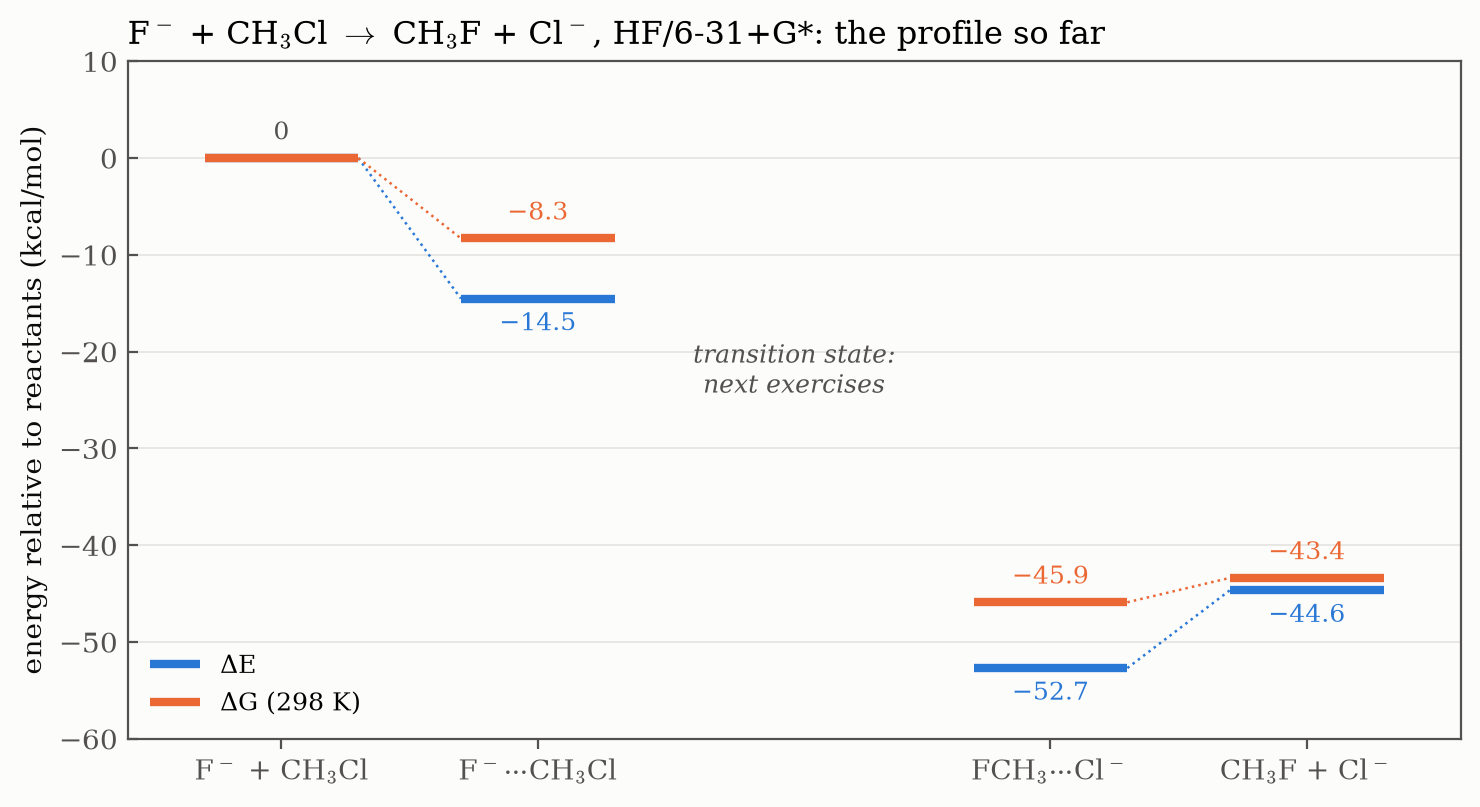
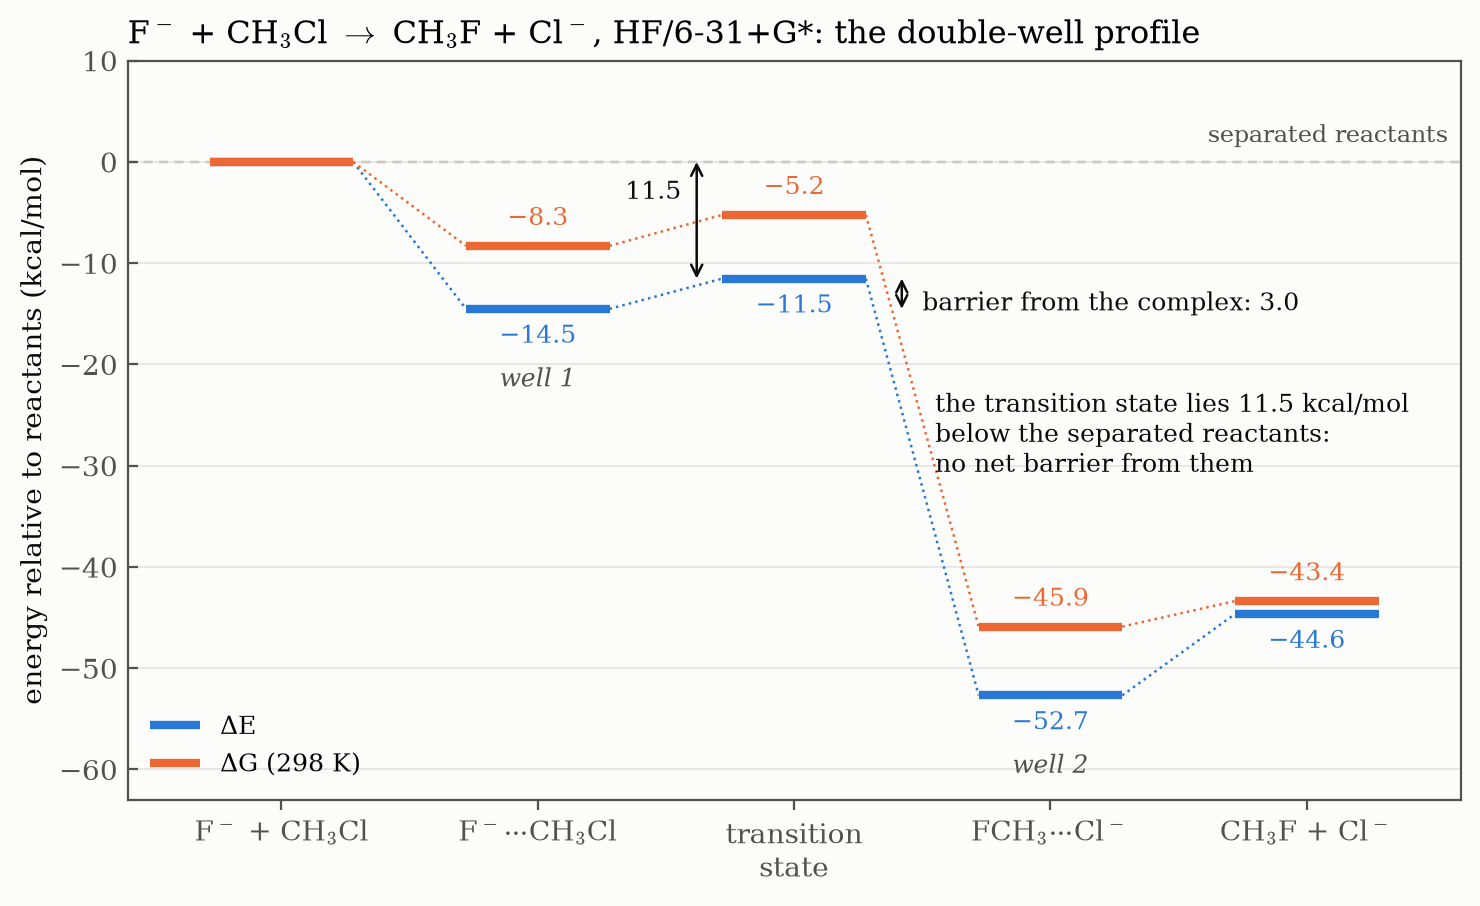
S04: figures for the surface, the transition vector and the double well
The map is a bicubic spline of the 99 scan points, with the path traced
by steepest descent from its saddle point. The energy profile now has
all five stationary points.

Supervised-by: Claude Opus 5.5 <noreply@anthropic.com>

diff --git a/sessions/04-sn2-reaction/plot_figures.py b/sessions/04-sn2-reaction/plot_figures.py
@@ -1,19 +1,21 @@
 """Builds every figure of Session 04 from the processed data files.
 
 Usage (from this folder):  python plot_figures.py
-Requires numpy and matplotlib. Figures are written to figures/.
+Requires numpy, scipy and matplotlib. Figures are written to figures/.
 """
 from pathlib import Path
 
 import matplotlib.pyplot as plt
 import numpy as np
 from matplotlib.patches import Ellipse
+from scipy.interpolate import RectBivariateSpline
+from scipy.optimize import root
 
 HERE = Path(__file__).parent
 OUT = HERE / "figures"
 OUT.mkdir(exist_ok=True)
 
-BLUE, ORANGE, AQUA = "#2a78d6", "#eb6834", "#1baf7a"
+BLUE, ORANGE, AQUA, YELLOW = "#2a78d6", "#eb6834", "#1baf7a", "#eda100"
 INK, INK_2, GRID = "#0b0b0b", "#52514e", "#e4e3df"
 SURFACE = "#fcfcfb"
 HARTREE_TO_KCAL = 627.5095
@@ -45,48 +47,68 @@ def read_results(path):
     return {l.split()[0]: dict(zip(names, l.split()[1:])) for l in lines[1:]}
 
 
+def reactants(column="E"):
+    """E or G of F- + CH3Cl, the zero of every energy in this session (hartree)."""
+    ions = read_results("ex1-reactants-and-products/results.txt")
+    return float(ions["f_anion"][column]) + float(ions["ch3cl"][column])
+
+
 def profile():
     """Energy of each stationary point relative to the reactants (kcal/mol)."""
     ions = read_results("ex1-reactants-and-products/results.txt")
     complexes = read_results("ex2-ion-dipole-complexes/results.txt")
+    ts = read_results("ex4-transition-state/results.txt")
     out = {}
     for column in ("E", "G"):
         v = lambda table, key: float(table[key][column])
-        reactants = v(ions, "f_anion") + v(ions, "ch3cl")
         products = v(ions, "cl_anion") + v(ions, "ch3f")
-        out[column] = [(x - reactants) * HARTREE_TO_KCAL for x in (
-            reactants, v(complexes, "f_ch3cl"), v(complexes, "ch3f_cl"), products)]
+        out[column] = [(x - reactants(column)) * HARTREE_TO_KCAL for x in (
+            reactants(column), v(complexes, "f_ch3cl"), v(ts, "ts_sn2"), v(complexes, "ch3f_cl"),
+            products)]
     return out
 
 
-# --- Figure 1: the energy profile so far (ex1 + ex2) -------------------------
+# --- Figure 1: the double-well profile (ex1 + ex2 + ex4) -----------------------
 def fig_profile():
     levels = profile()
-    x = [0, 1, 3, 4]
-    names = [r"F$^-$ + CH$_3$Cl", r"F$^-\cdots$CH$_3$Cl", r"FCH$_3\cdots$Cl$^-$", r"CH$_3$F + Cl$^-$"]
-    fig, ax = plt.subplots(figsize=(8.6, 4.4))
-    # G lies above E at the complexes: its label goes above, the one of E below
-    for column, colour, label, shift in (("E", BLUE, "ΔE", -2.6), ("G", ORANGE, "ΔG (298 K)", 2.6)):
+    x = [0, 1, 2, 3, 4]
+    names = [r"F$^-$ + CH$_3$Cl", r"F$^-\cdots$CH$_3$Cl", "transition\nstate",
+             r"FCH$_3\cdots$Cl$^-$", r"CH$_3$F + Cl$^-$"]
+    fig, ax = plt.subplots(figsize=(8.6, 4.8))
+    ax.axhline(0, color=INK_2, lw=0.8, ls=(0, (4, 3)), zorder=1)
+    ax.text(4.55, 1.4, "separated reactants", ha="right", va="bottom", fontsize=8.5, color=INK_2)
+    # G lies above E everywhere: its label goes above, the one of E below
+    for column, colour, label, shift in (("E", BLUE, "ΔE", -2.7), ("G", ORANGE, "ΔG (298 K)", 2.7)):
         y = levels[column]
         for k, (xi, yi) in enumerate(zip(x, y)):
-            ax.plot([xi - 0.3, xi + 0.3], [yi, yi], color=colour, lw=3, solid_capstyle="butt",
+            ax.plot([xi - 0.28, xi + 0.28], [yi, yi], color=colour, lw=3, solid_capstyle="butt",
                     label=label if k == 0 else None, zorder=3)
-            if k == 0 and column == "E":   # both are 0 at the reactants: one label
+            if k == 0:   # both are 0 at the reactants: no label needed
                 continue
-            text = "0" if k == 0 else f"{yi:.1f}".replace("-", "−")
-            ax.text(xi, yi + shift, text, ha="center", va="center",
-                    fontsize=9, color=INK_2 if k == 0 else colour)
-        ax.plot([x[0] + 0.3, x[1] - 0.3], y[:2], color=colour, lw=0.9, ls=":", zorder=2)
-        ax.plot([x[2] + 0.3, x[3] - 0.3], y[2:], color=colour, lw=0.9, ls=":", zorder=2)
-    ax.text(2, -22, "transition state:\nnext exercises", ha="center", va="center",
-            fontsize=9, color=INK_2, style="italic")
+            ax.text(xi, yi + shift, f"{yi:.1f}".replace("-", "−"), ha="center", va="center",
+                    fontsize=9, color=colour)
+        for k in range(4):
+            ax.plot([x[k] + 0.28, x[k + 1] - 0.28], y[k:k + 2], color=colour, lw=0.9, ls=":", zorder=2)
+    e = levels["E"]
+    # The two wells, and the barrier between them
+    ax.annotate("", xy=(2.42, e[2]), xytext=(2.42, e[1]),
+                arrowprops={"arrowstyle": "<->", "color": INK, "lw": 0.9, "shrinkA": 0, "shrinkB": 0})
+    ax.text(2.5, (e[1] + e[2]) / 2 - 1, f"barrier from the complex: {e[2] - e[1]:.1f}",
+            ha="left", va="center", fontsize=9, color=INK)
+    ax.annotate("", xy=(1.62, e[2]), xytext=(1.62, 0),
+                arrowprops={"arrowstyle": "<->", "color": INK, "lw": 0.9, "shrinkA": 0, "shrinkB": 0})
+    ax.text(1.56, -3, f"{-e[2]:.1f}", ha="right", va="center", fontsize=9, color=INK)
+    ax.text(2.55, -27, f"the transition state lies {-e[2]:.1f} kcal/mol\nbelow the separated reactants:\n"
+            "no net barrier from them", ha="left", va="center", fontsize=9, color=INK)
+    for xi, text in ((1, "well 1"), (3, "well 2")):
+        ax.text(xi, e[xi] - 7, text, ha="center", va="center", fontsize=9, color=INK_2, style="italic")
     ax.set_xticks(x, names)
     ax.set_xlim(-0.6, 4.6)
-    ax.set_ylim(-60, 10)
+    ax.set_ylim(-63, 10)
     ax.set_ylabel("energy relative to reactants (kcal/mol)")
     ax.grid(axis="x", visible=False)
     ax.legend(loc="lower left", fontsize=9)
-    ax.set_title(r"F$^-$ + CH$_3$Cl $\to$ CH$_3$F + Cl$^-$, HF/6-31+G*: the profile so far",
+    ax.set_title(r"F$^-$ + CH$_3$Cl $\to$ CH$_3$F + Cl$^-$, HF/6-31+G*: the double-well profile",
                  loc="left", fontsize=11.5)
     fig.savefig(OUT / "energy_profile.png", bbox_inches="tight")
     plt.close(fig)
@@ -266,7 +288,167 @@ def fig_isomerization():
     print("Written", OUT / "hcn_isomerization.png")
 
 
+# --- Figure 4: the potential energy surface and its minimum energy path (ex3) ---
+def surface():
+    """The 9 x 11 scan as a grid in kcal/mol above F- + CH3Cl, and a bicubic spline of it."""
+    rows = np.loadtxt(HERE / "ex3-potential-energy-surface/scan_raw.txt")
+    ccl, cf = np.unique(rows[:, 0]), np.unique(rows[:, 1])
+    grid = np.empty((len(ccl), len(cf)))
+    for a, b, e in rows:
+        grid[np.searchsorted(ccl, a), np.searchsorted(cf, b)] = (e - reactants()) * HARTREE_TO_KCAL
+    return ccl, cf, grid, RectBivariateSpline(ccl, cf, grid)
+
+
+def steepest_descent(spline, start, direction, step=0.002, limits=((1.6, 3.6), (1.3, 2.9))):
+    """Walk downhill from the saddle point until the energy stops falling."""
+    energy = lambda p: spline(*p)[0, 0]
+    path = [start]
+    p = start + step * direction
+    while True:
+        g = np.array([spline(*p, dx=1)[0, 0], spline(*p, dy=1)[0, 0]])
+        nxt = p - step * g / np.linalg.norm(g)
+        inside = all(lo <= v <= hi for v, (lo, hi) in zip(nxt, limits))
+        if not inside or energy(nxt) >= energy(p):
+            return np.array(path + [p])
+        path.append(p)
+        p = nxt
+
+
+def fig_pes():
+    ccl, cf, grid, spline = surface()
+    ts = read_results("ex4-transition-state/results.txt")["ts_sn2"]
+    complexes = read_results("ex2-ion-dipole-complexes/results.txt")
+    opt = {k: ((float(v["E"]) - reactants()) * HARTREE_TO_KCAL, float(v["r_CCl"]), float(v["r_CF"]))
+           for k, v in complexes.items()}
+    opt["ts"] = ((float(ts["E"]) - reactants()) * HARTREE_TO_KCAL, float(ts["r_CCl"]), float(ts["r_CF"]))
+
+    # The saddle point of the spline, close to the optimised one, and the
+    # direction of negative curvature there
+    grad = lambda p: [spline(*p, dx=1)[0, 0], spline(*p, dy=1)[0, 0]]
+    saddle = root(grad, [opt["ts"][1], opt["ts"][2]]).x
+    hess = np.array([[spline(*saddle, dx=2)[0, 0], spline(*saddle, dx=1, dy=1)[0, 0]],
+                     [spline(*saddle, dx=1, dy=1)[0, 0], spline(*saddle, dy=2)[0, 0]]])
+    values, vectors = np.linalg.eigh(hess)
+    down = vectors[:, np.argmin(values)]
+    side_a, side_b = (steepest_descent(spline, saddle, s * down) for s in (1, -1))
+    # From the reactant valley (short C-Cl) to the product valley
+    if side_a[-1, 0] > side_b[-1, 0]:
+        side_a, side_b = side_b, side_a
+    path = np.vstack([side_a[::-1], side_b[1:]])
+    along = np.concatenate([[0], np.cumsum(np.linalg.norm(np.diff(path, axis=0), axis=1))])
+    energy = spline(path[:, 0], path[:, 1], grid=False)
+
+    fig, (ax1, ax2) = plt.subplots(1, 2, figsize=(12, 5.0),
+                                   gridspec_kw={"width_ratios": [1.12, 1], "wspace": 0.42})
+    # (a) The map
+    fx, fy = np.linspace(1.6, 3.6, 300), np.linspace(1.3, 2.9, 300)
+    fine = spline(fx, fy).T
+    levels = np.arange(-55, 41, 5)
+    filled = ax1.contourf(fx, fy, fine, levels=levels, cmap="magma", extend="max")
+    ax1.contour(fx, fy, fine, levels=levels, colors="white", linewidths=0.45, alpha=0.35)
+    gx, gy = np.meshgrid(ccl, cf)
+    ax1.plot(gx.ravel(), gy.ravel(), ".", color="white", ms=2.2, alpha=0.55)
+    ax1.plot(path[:, 0], path[:, 1], color=AQUA, lw=2.6, solid_capstyle="round")
+    for key in ("f_ch3cl", "ch3f_cl"):
+        ax1.plot(opt[key][1], opt[key][2], "o", ms=8, mfc="white", mec=INK, mew=1.2, zorder=5)
+    ax1.plot(opt["ts"][1], opt["ts"][2], "*", ms=17, mfc=YELLOW, mec=INK, mew=1, zorder=5)
+    for x, y, text, ha, colour in (
+            (1.98, 2.66, r"F$^-\cdots$CH$_3$Cl" + "\nreactant complex", "left", "white"),
+            (3.25, 1.56, r"FCH$_3\cdots$Cl$^-$" + "\nproduct complex", "center", "white"),
+            (2.24, 2.2, "transition state\n(2.133, 2.125)", "left", "white"),
+            (1.64, 1.42, "highest region:\nF and Cl crowd C,\nnever visited", "left", INK)):
+        ax1.text(x, y, text, ha=ha, va="center", fontsize=8.5, color=colour)
+    ax1.set_xlabel("d(C–Cl) (Å)")
+    ax1.set_ylabel("d(C–F) (Å)")
+    ax1.set_aspect("equal")
+    ax1.grid(False)
+    bar = fig.colorbar(filled, ax=ax1, fraction=0.045, pad=0.03)
+    bar.set_label("kcal/mol, relative to F$^-$ + CH$_3$Cl")
+    ax1.set_anchor("N")   # top edge level with panel (b), so the titles line up
+    ax1.set_title("(a) The surface: 99 points, interpolated", loc="left", fontsize=10.5)
+
+    # (b) The same path, stretched out
+    ax2.axhline(0, color=INK_2, lw=0.8, ls=(0, (4, 3)))
+    ax2.text(along[-1], 1.2, "separated reactants", ha="right", va="bottom", fontsize=8.5, color=INK_2)
+    ax2.plot(along, energy, color=AQUA, lw=2.4, label="along the path of the scan")
+    nearest = lambda key: along[np.argmin(np.hypot(path[:, 0] - opt[key][1], path[:, 1] - opt[key][2]))]
+    for key, marker, size, colour in (("f_ch3cl", "o", 8, "white"), ("ts", "*", 16, YELLOW),
+                                      ("ch3f_cl", "o", 8, "white")):
+        ax2.plot(nearest(key), opt[key][0], marker, ms=size, mfc=colour, mec=INK, mew=1.1, zorder=5,
+                 label="optimised (Ex. 2 and 4)" if key == "ts" else None)
+        last = key == "ch3f_cl"   # at the right edge: label on its left
+        ax2.text(nearest(key) + (-0.06 if last else 0.06), opt[key][0] + (2.4 if key == "ts" else -2.6),
+                 f"{opt[key][0]:.1f}".replace("-", "−"), ha="right" if last else "left",
+                 va="center", fontsize=9, color=INK)
+    ax2.set_xlabel("distance along the path (Å)")
+    ax2.set_ylabel("energy relative to F$^-$ + CH$_3$Cl (kcal/mol)")
+    ax2.set_ylim(-60, 8)
+    ax2.legend(loc="lower left", fontsize=9)
+    ax2.set_title("(b) The minimum energy path, stretched out", loc="left", fontsize=10.5)
+    fig.suptitle(r"F$^-$ + CH$_3$Cl, HF/6-31+G*: relaxed scan of d(C–Cl) and d(C–F)",
+                 x=0.07, ha="left", y=0.99, fontsize=11.5)
+    fig.savefig(OUT / "potential_energy_surface.png", bbox_inches="tight")
+    plt.close(fig)
+    print("Written", OUT / "potential_energy_surface.png")
+    print("saddle of the spline", saddle.round(3), "E", round(spline(*saddle)[0, 0], 2))
+    print("path ends", path[0].round(3), round(energy[0], 2), path[-1].round(3), round(energy[-1], 2))
+
+
+# --- Figure 5: the transition vector of the SN2 (ex4) ----------------------------
+def fig_sn2_vector():
+    rows = np.loadtxt(HERE / "ex4-transition-state/transition_vector.txt", skiprows=1)
+    z, xyz, move = rows[:, 0].astype(int), rows[:, 1:4], rows[:, 4:7]
+    c, f = xyz[z == 6][0], xyz[z == 9][0]
+    hydrogens = np.where(z == 1)[0]
+    # The F-C-Cl axis across, and the first H up: the plane of the drawing
+    u = (f - c) / np.linalg.norm(f - c)
+    v = (xyz[hydrogens[0]] - c) - (xyz[hydrogens[0]] - c) @ u * u
+    v /= np.linalg.norm(v)
+    flat = lambda p: np.array([p @ u, p @ v])
+    pos = {k: flat(xyz[k] - c) for k in range(len(z))}
+    names = {6: "C", 9: "F", 17: "Cl", 1: "H"}
+    fig, ax = plt.subplots(figsize=(7.6, 3.6))
+    for k in hydrogens:
+        behind = k != hydrogens[0]   # the other two H are out of the plane
+        ax.plot(*zip(pos[np.where(z == 6)[0][0]], pos[k]), color=INK_2, lw=1.3, alpha=0.5 if behind else 1)
+    for name, ls in ((9, (0, (3, 2))), (17, (0, (3, 2)))):
+        k = np.where(z == name)[0][0]
+        ax.plot(*zip(pos[np.where(z == 6)[0][0]], pos[k]), color=INK_2, lw=1.3, ls=ls)
+    scale = 1.0   # displacements have no unit: 1 is drawn as 1 Å
+    for k in range(len(z)):
+        behind = z[k] == 1 and k != hydrogens[0]
+        radius = 0.24 if z[k] != 1 else 0.17
+        ax.add_patch(plt.Circle(pos[k], radius, fc=SURFACE, ec=INK, lw=1.2, zorder=3, alpha=0.6 if behind else 1))
+        ax.text(*pos[k], names[z[k]], ha="center", va="center", fontsize=8.5, color=INK, zorder=4,
+                alpha=0.6 if behind else 1)
+        d = flat(move[k]) * scale
+        if np.linalg.norm(d) > 0.05:
+            # The short arrows of the H atoms start at the edge of the circle, so they stay visible
+            edge = pos[k] + (radius * d / np.linalg.norm(d) if z[k] == 1 else 0)
+            ax.annotate("", xy=edge + d, xytext=edge, zorder=5,
+                        arrowprops={"arrowstyle": "-|>", "color": AQUA, "lw": 2, "mutation_scale": 12,
+                                    "shrinkA": 0, "shrinkB": 0})
+    ts = read_results("ex4-transition-state/results.txt")["ts_sn2"]
+    ax.text(pos[np.where(z == 9)[0][0]][0] / 2, -0.32, f"{float(ts['r_CF']):.3f} Å", ha="center",
+            fontsize=8.5, color=INK_2)
+    ax.text(pos[np.where(z == 17)[0][0]][0] / 2, -0.32, f"{float(ts['r_CCl']):.3f} Å", ha="center",
+            fontsize=8.5, color=INK_2)
+    ax.text(0.05, -1.3, "The carbon moves most, towards F and away from Cl, through the plane of the H atoms.\n"
+            "The two pale H atoms lie out of the plane, one behind the other.", ha="center", va="center", fontsize=8.5, color=INK_2)
+    ax.set_xlim(-2.75, 2.75)
+    ax.set_ylim(-1.45, 1.45)
+    ax.set_aspect("equal")
+    ax.axis("off")
+    ax.set_title("The SN2 transition state and its imaginary mode, 442i cm$^{-1}$ (arrows: the transition vector)",
+                 loc="left", fontsize=10.5)
+    fig.savefig(OUT / "sn2_transition_vector.png", bbox_inches="tight")
+    plt.close(fig)
+    print("Written", OUT / "sn2_transition_vector.png")
+
+
 if __name__ == "__main__":
     fig_profile()
     fig_orbitals()
     fig_isomerization()
+    fig_pes()
+    fig_sn2_vector()
